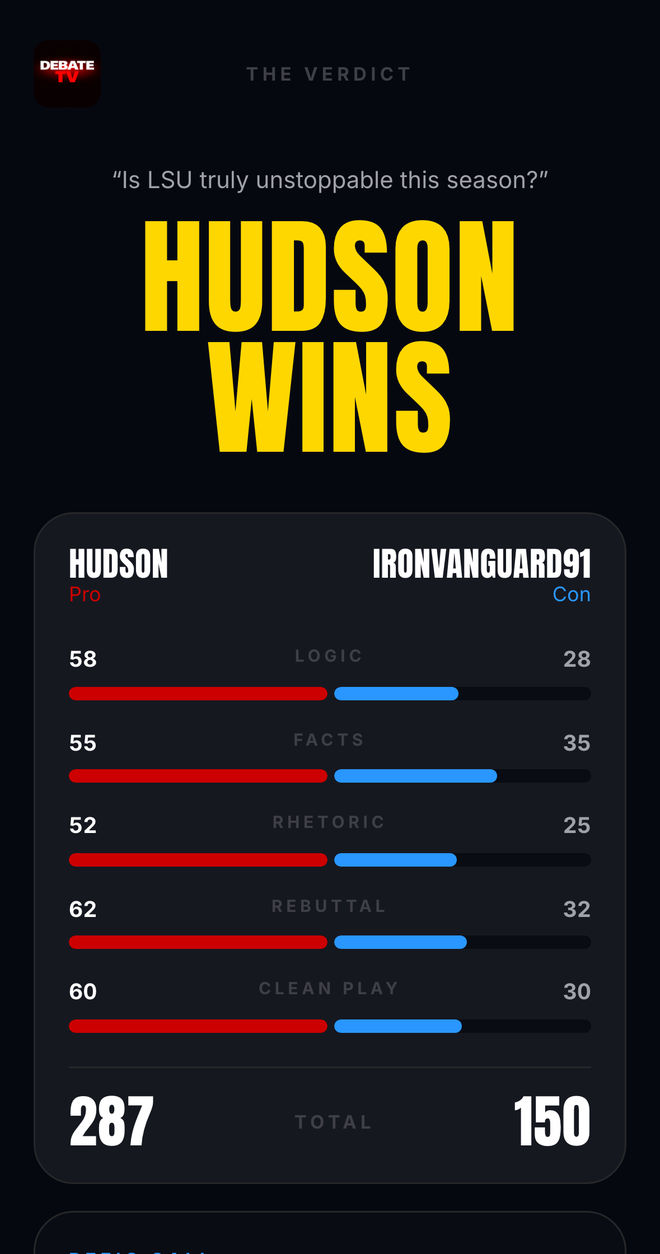
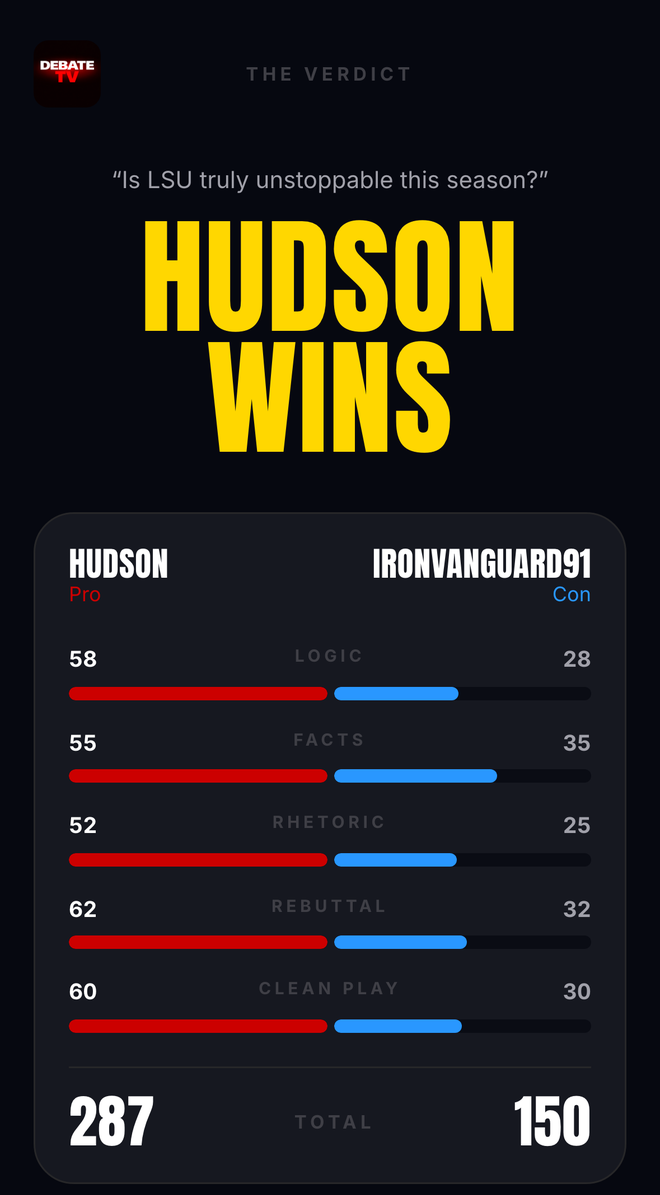
refjudge engine, review fixes: equal scores read 'Too close to call', the caption pill leaves in a pause, captions timed on the cut that plays, app screens cropped above the REF text

diff --git a/DebateTV/formats/refjudge_engine/tpl/template.html b/DebateTV/formats/refjudge_engine/tpl/template.html
@@ -83,7 +83,7 @@
         <div class="hd"><img src="assets/dtv-icon.png" alt="" />THE VERDICT · AI REF</div>
         <div class="q">“{{MOTION}}”</div>
         <div class="who">{{CELL_A}}<div class="vs">VS</div>{{CELL_B}}</div>
-        <div class="call" style="font-size:{{CALL_PX}}px">{{WINNER}} wins</div>
+        <div class="call" style="font-size:{{CALL_PX}}px">{{CALL}}</div>
         <div class="rows">{{ROWS}}</div>
       </div>
 
@@ -116,10 +116,13 @@
       // pill never sits empty: words that start within 0.25 s are on it, a later first word brings the pill in
       if (caps.length && caps[0][1] < 0.25) caps[0][1] = 0;
       else if (caps.length) { tl.set("#scrim", { autoAlpha: 0 }, 0); tl.set("#scrim", { autoAlpha: 1 }, caps[0][1]); }
-      caps.forEach(([id, a, b]) => {
+      caps.forEach(([id, a, b], k) => {
         if (a < 0.01) tl.set(id, { scale: 1, autoAlpha: 1 }, 0);
         else tl.fromTo(id, { scale: 0.9, autoAlpha: 0 }, { scale: 1, autoAlpha: 1, duration: Math.min(0.07, (b - a) / 2), ease: "power2.out" }, a);
         tl.set(id, { autoAlpha: 0 }, b);
+        // the pill never sits empty: in a pause longer than 0.6 s it leaves with the words and returns with the next
+        const next = k + 1 < caps.length ? caps[k + 1][1] : V;
+        if (next - b > 0.6) { tl.set("#scrim", { autoAlpha: 0 }, b); if (k + 1 < caps.length) tl.set("#scrim", { autoAlpha: 1 }, next); }
       });
       tl.fromTo("#zoom", { scale: 1 }, { scale: 1.02, duration: V, ease: "none", transformOrigin: "50% 36%" }, 0);
 

diff --git a/DebateTV/formats/refjudge_engine/render.py b/DebateTV/formats/refjudge_engine/render.py
@@ -700,7 +700,8 @@ def build(job, dur, d, words):
     sc = job["judge_response"]["judgment"]["scores"]
     avg = job["judge_response"]["averageScores"]
     side = {"A": ("participantA", job["a_name"]), "B": ("participantB", job["b_name"])}
-    cell = lambda s_: (f'<div class="p{" w" if s_ == v["win"] else ""}"><span>{html.escape(side[s_][1])}</span>'
+    tie = v["ws"] == v["ls"]    # equal averages: the card says so and crowns nobody (10/6 review: 58 to 58 "wins")
+    cell = lambda s_: (f'<div class="p{" w" if s_ == v["win"] and not tie else ""}"><span>{html.escape(side[s_][1])}</span>'
                        f'<div class="big">{avg[side[s_][0]]}</div></div>')
     rows = "".join(
         f'<div class="r"><span>{sc["participantA"][k]}</span><div class="t l"><s class="ref1-a" data-v="{sc["participantA"][k] / 100:.2f}"></s></div>'
@@ -713,7 +714,8 @@ def build(job, dur, d, words):
            "{{BOOM_AT}}": f"{max(0.0, f_card - 0.012):.3f}", "{{CLICK_AT}}": f"{f_ask - 0.0015:.4f}",
            "{{HOOK_HTML}}": hook, "{{HOOK_PX}}": str(hook_px), "{{MOTION}}": html.escape(job["motion"]),
            "{{CELL_A}}": cell("A"), "{{CELL_B}}": cell("B"), "{{ROWS}}": rows,
-           "{{WINNER}}": html.escape(v["w"]), "{{CALL_PX}}": str(min(96, int(1640 / (len(v["w"]) + 5))))}
+           "{{CALL}}": "Too close to call" if tie else f'{html.escape(v["w"])} wins',
+           "{{CALL_PX}}": str(min(96, int(1640 / (len("Too close to call" if tie else v["w"] + " wins") + 0))))}
     for k, val in rep.items():
         s = s.replace(k, val)
     assert "{{" not in s, re.findall(r"{{\w+}}", s)
@@ -769,12 +771,18 @@ def render(jobdir):
         # every word in the cut's own seconds, with its speaker and line; then the stretch that plays before the card
         words = [dict(w, t=w["t"] - job["start"], e=w["e"] - job["start"]) for w in aligned_words(job, spoken)]
         a, b, i, j = pick_window(words, job["kill_phrase"], full, lines=job["lines"])
+        lines = job["lines"]
         if a > 0.01 or b < full - 0.01:
             dur = trim_cut(p / "full.mp4", p / "assets/cut.mp4", a, b)
+            # caption times come from the audio that plays: the gate transcribes the short cut, and on crosstalk
+            # whisper hears a short cut differently from the long one (10/6: 2 of 14 renders drifted 165 to 247 ms)
+            lines = job["lines"][min(w["l"] for w in words[i:j + 1]):max(w["l"] for w in words[i:j + 1]) + 1]
+            heard = aligned_words(dict(job, lines=lines), spoken_words(job, p / "assets/cut.mp4"))
+            words = [dict(w, t=max(0.0, w["t"] - job["start"]), e=w["e"] - job["start"]) for w in heard]
         else:
             shutil.move(p / "full.mp4", p / "assets/cut.mp4")
             dur = full
-        words = [dict(w, t=max(0.0, w["t"] - a), e=w["e"] - a) for w in words[i:j + 1]]
+            words = [dict(w, t=max(0.0, w["t"] - a), e=w["e"] - a) for w in words[i:j + 1]]
         dur = math_floor3(int(dur * 30 + 1e-6) / 30)    # whole frames: the scorecard lands on the frame the clip ends
         sh(["ffmpeg", "-v", "error", "-y", "-sseof", "-0.2", "-i", str(p / "assets/cut.mp4"), "-frames:v", "1", "-q:v", "2", str(p / "assets/freeze.jpg")])
         v, marks = build(job, dur, p, words)
@@ -792,7 +800,7 @@ def render(jobdir):
     (dst / f"{key}.layout.json").write_text(json.dumps({"window": list(WIN), "clip_end": dur, "captions": list(BAND)}))
     (dst / "cut.json").write_text(json.dumps({"exchange_s": full, "kept": [round(a, 2), round(b, 2)], "clip_s": dur, **marks,
                                               "both_voices": len({w["s"] for w in words}) > 1,
-                                              "payoff_in": bool(kill_span(words, job["kill_phrase"], job["lines"]))}))
+                                              "payoff_in": bool(kill_span(words, job["kill_phrase"], lines))}))
     (dst / "post.txt").write_text(post_txt(job, v))
     r = qa(final)
     (dst / "qa.json").write_text(json.dumps(r, indent=1))
